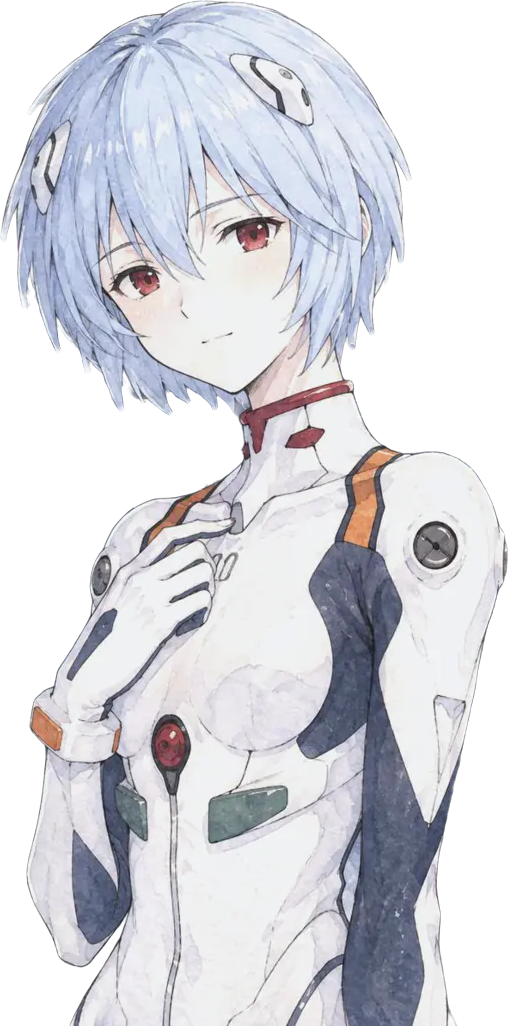
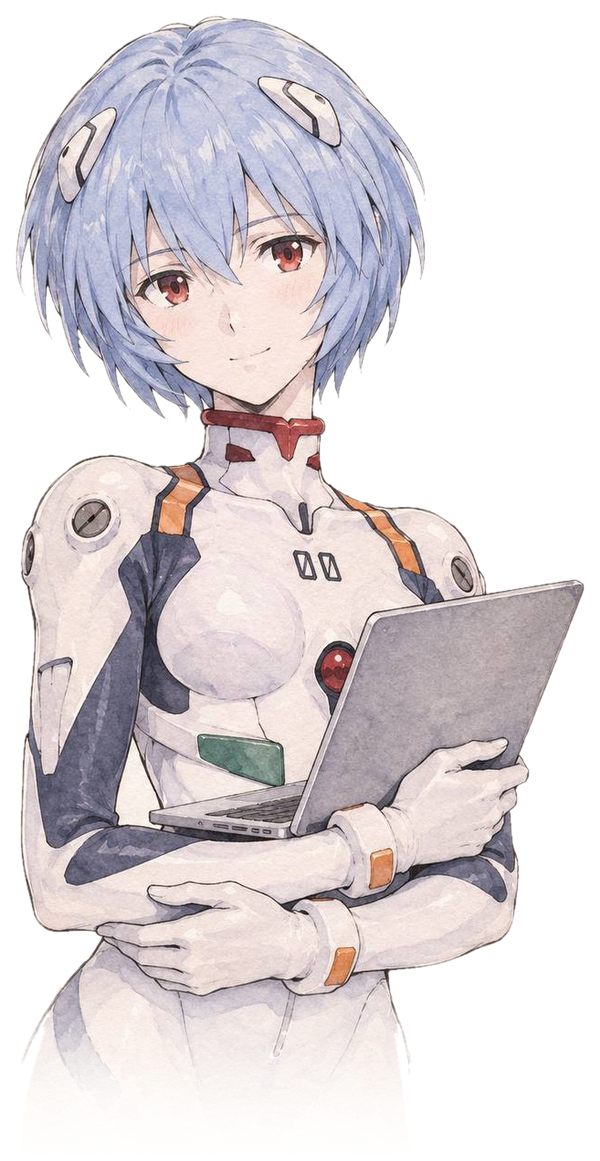
Picture: a new Rei holding a laptop, cut out cleanly (no moon, the bottom fades out)

diff --git a/README.md b/README.md
@@ -5,5 +5,5 @@
   <samp>Hello there. I'm <a href="https://thomaslonigro.dev">Thomas</a>.<br> A <del>software developer</del> tech enthusiast and problem solver living in Bari, Apulia.<br><br>#linux, #vps, #cloud, #astro</samp>
   <br>
   <br>
-  <a href="https://thomaslonigro.dev"><img src="picture.png" width="300" alt="Rei Ayanami in her plugsuit, the moon behind her" /></a>
+  <a href="https://thomaslonigro.dev"><img src="picture.png" width="300" alt="Rei Ayanami in her plugsuit, holding a laptop" /></a>
 </p>
